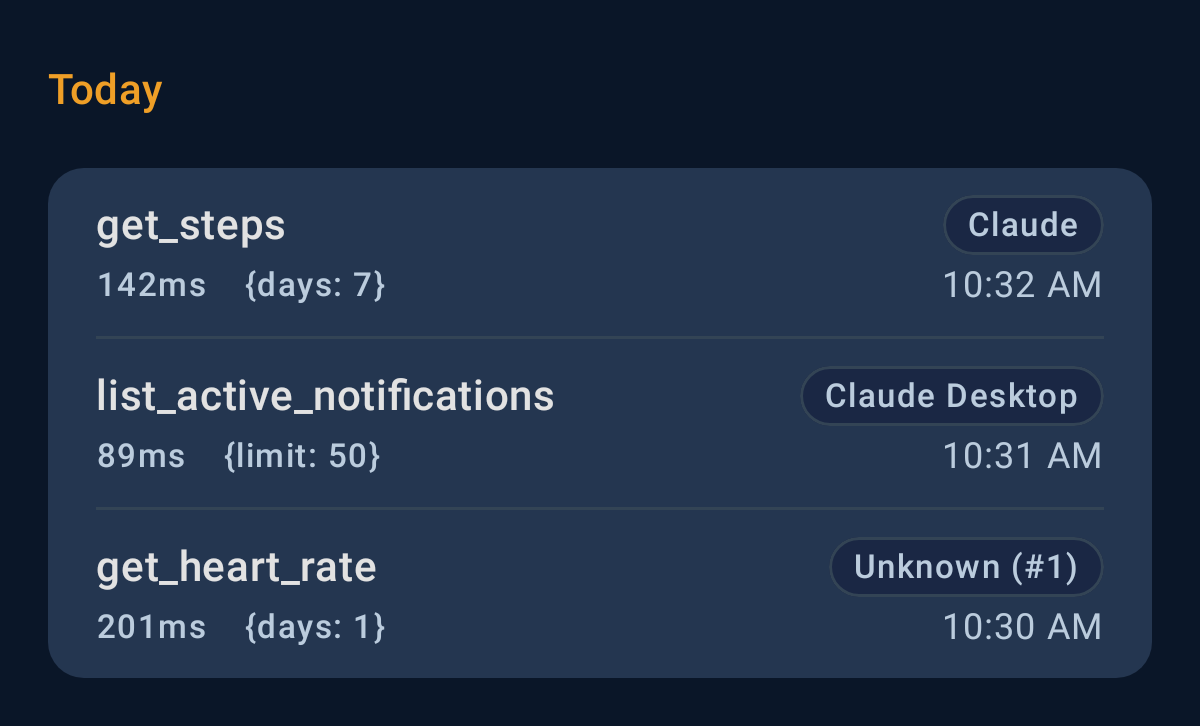
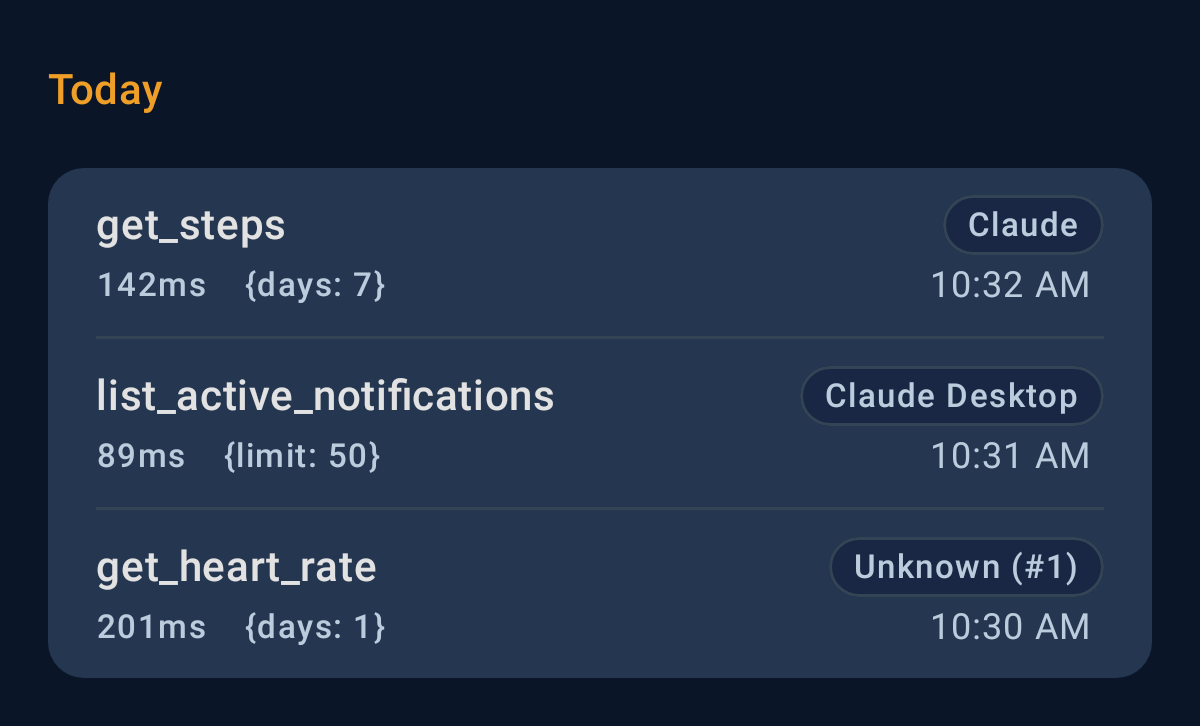
Tighten variant 7 time right-edge (4dp end padding) (#365)
The user felt the pill in variant 7 looked like it had extra padding
to its right. The cause is optical: the pill has 8dp internal
horizontal padding, so its inner text ends ~9dp left of its outer
border. The time text below had no end padding, so its last glyph
sat at the row's full right-inset edge — making the time read as
"further right" than the pill's text.

Adding 4dp of end padding to the time pulls its glyph inward to
partially match the pill's internal right inset, bringing the two
text right-edges closer optically.

Only variant 7's time is touched; production ToolCallRow and
ListRow are unchanged.

Changed region(s): [[0.7708, 0.3636, 0.925, 0.4242], [0.7708, 0.6061, 0.925, 0.6667], [0.7708, 0.8182, 0.925, 0.8788]]

diff --git a/app/src/test/java/com/rousecontext/app/ui/screens/AuditRowVariants.kt b/app/src/test/java/com/rousecontext/app/ui/screens/AuditRowVariants.kt
@@ -478,7 +478,8 @@ internal fun Variant7TimeBelowPill(sample: VariantRowSample) {
                 Text(
                     sample.time,
                     style = MaterialTheme.typography.bodySmall,
-                    color = MaterialTheme.colorScheme.onSurfaceVariant
+                    color = MaterialTheme.colorScheme.onSurfaceVariant,
+                    modifier = Modifier.padding(end = 4.dp)
                 )
             }
         }
